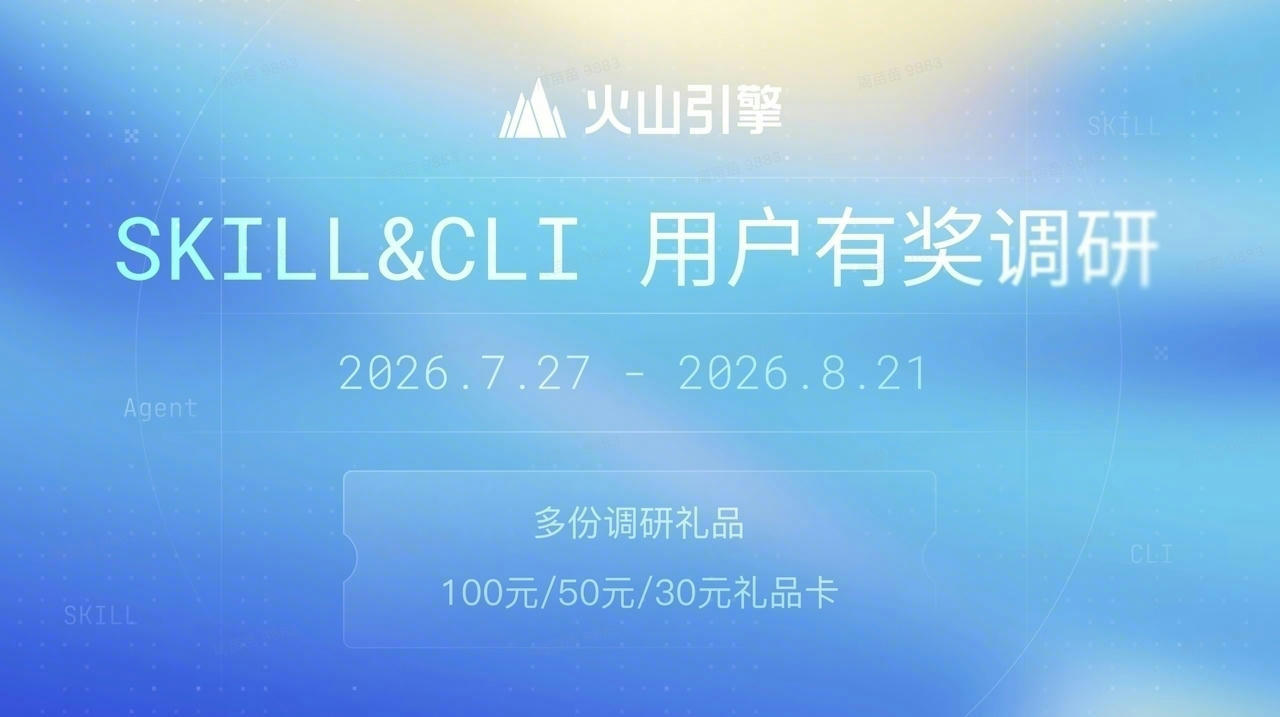
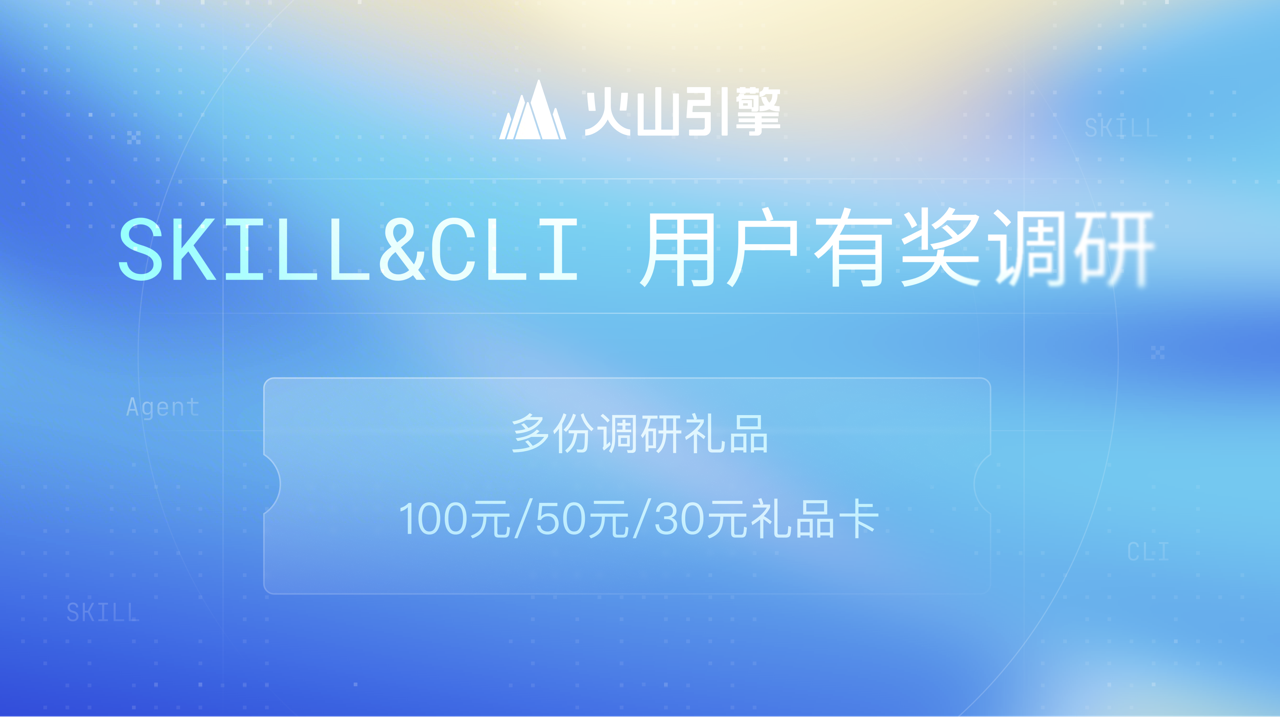
chore: update img
* chore: update date
* chore: update img

See merge request: !43

diff --git a/README_en.md b/README_en.md
@@ -3,7 +3,7 @@
 ---
 [![Volcengine SKILL & CLI Survey](img.png)](https://www.volcengine.com/survey/q/v2/7662656599489085475/q36U8r81/5ffc/channel=doc)
 
-To improve your experience with Volcengine skill, we invite you to participate in our [Survey with Prizes](https://www.volcengine.com/survey/q/v2/7662656599489085475/q36U8r81/5ffc/channel=doc) from July 27 to August 21, 2026.
+To improve your experience with Volcengine skill, we invite you to participate in our [Survey with Prizes](https://www.volcengine.com/survey/q/v2/7662656599489085475/q36U8r81/5ffc/channel=doc) .
 
 ---
 

diff --git a/README.md b/README.md
@@ -3,7 +3,7 @@
 ---
 [![Volcengine SKILL & CLI Survey](img.png)](https://www.volcengine.com/survey/q/v2/7662656599489085475/q36U8r81/5ffc/channel=doc)
 
-为提高您对火山引擎 skill 的使用体验，2026/7/27-2026/8/21 邀您参加[有奖调研](https://www.volcengine.com/survey/q/v2/7662656599489085475/q36U8r81/5ffc/channel=doc)。
+为提高您对火山引擎 skill 的使用体验，邀您参加[有奖调研](https://www.volcengine.com/survey/q/v2/7662656599489085475/q36U8r81/5ffc/channel=doc)。
 
 ---
 
